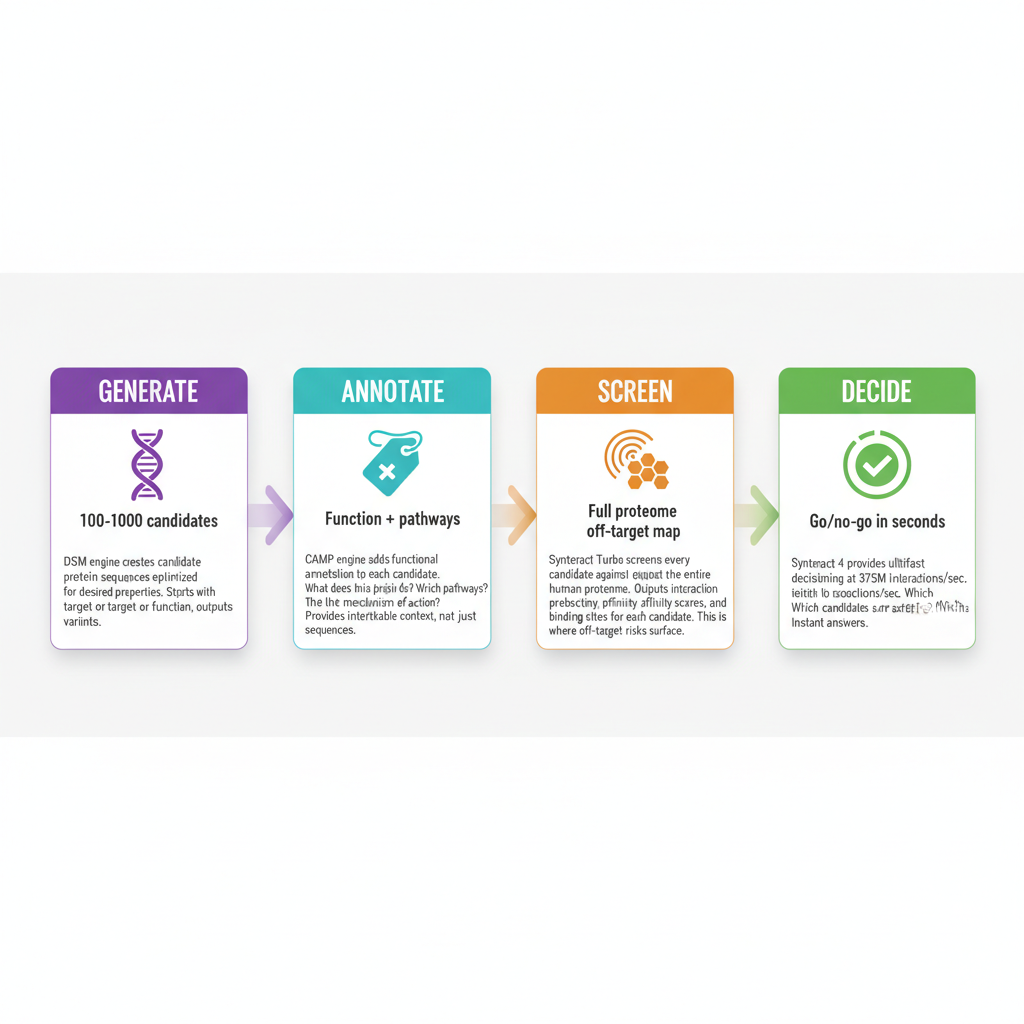
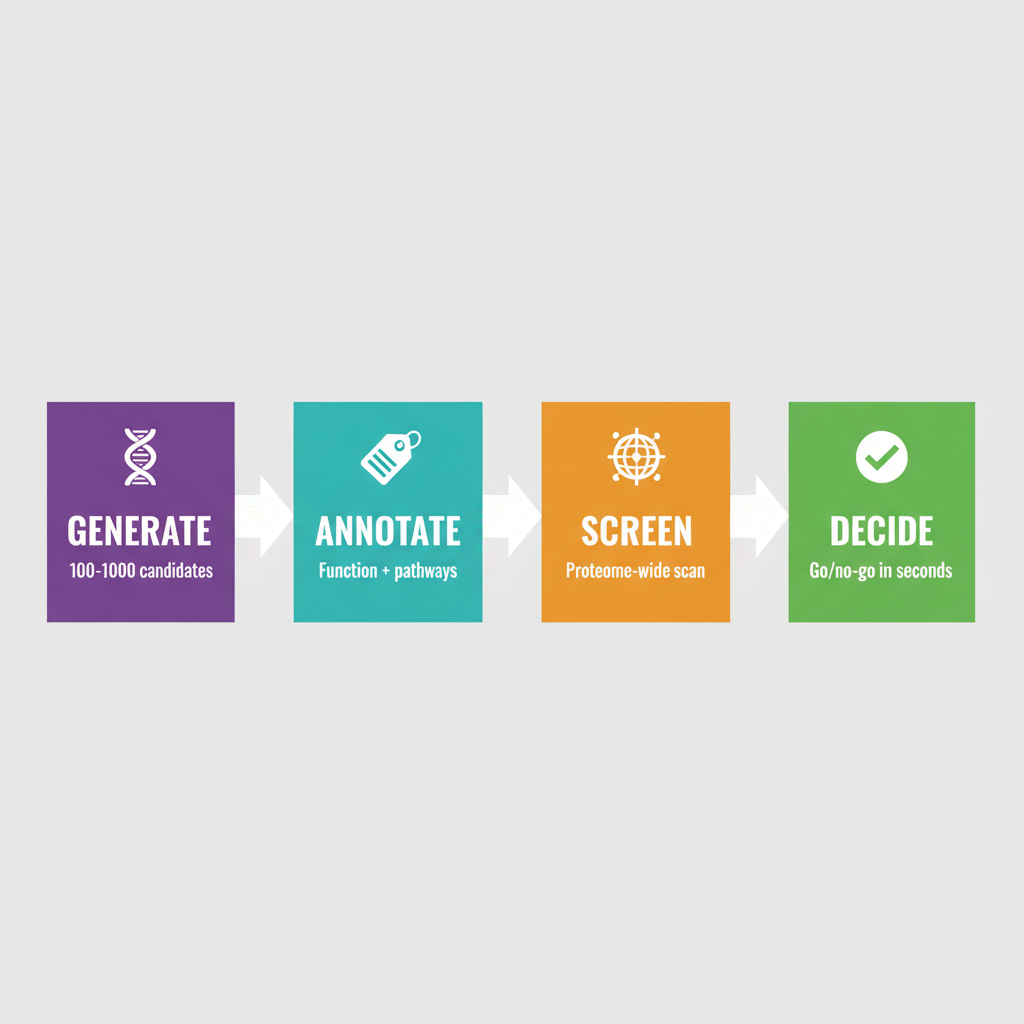
Fix slide 4 workflow graphic readability
- Regenerate workflow image with simpler design and larger text
- Increase display size and crop to focus on workflow strip
- Update prompt to emphasize readability at small display sizes

🤖 Generated with [Claude Code](https://claude.com/claude-code)

Changed region(s): [[0.0312, 0.3438, 0.9688, 0.6562], [0.0, 0.7188, 1.0, 1.0], [0.0, 0.0, 1.0, 0.25]]

diff --git a/decks/synthyra-bizdev/index.html b/decks/synthyra-bizdev/index.html
@@ -1149,8 +1149,8 @@
               </div>
             </div>
           </div>
-          <div class="reveal" style="--reveal-index: 5; grid-column: 1 / -1; margin-top: 8px; text-align: center;">
-            <img src="resources/assets/slide4-workflow.png" alt="Platform workflow: Generate → Annotate → Screen → Decide" style="max-width: 100%; max-height: 180px; border-radius: 10px;" />
+          <div class="reveal" style="--reveal-index: 5; grid-column: 1 / -1; margin-top: 8px; text-align: center; overflow: hidden; border-radius: 10px; max-height: 220px;">
+            <img src="resources/assets/slide4-workflow.png" alt="Platform workflow: Generate → Annotate → Screen → Decide" style="width: 100%; height: auto; margin-top: -15%; margin-bottom: -15%;" />
           </div>
         </div>
       </section>
